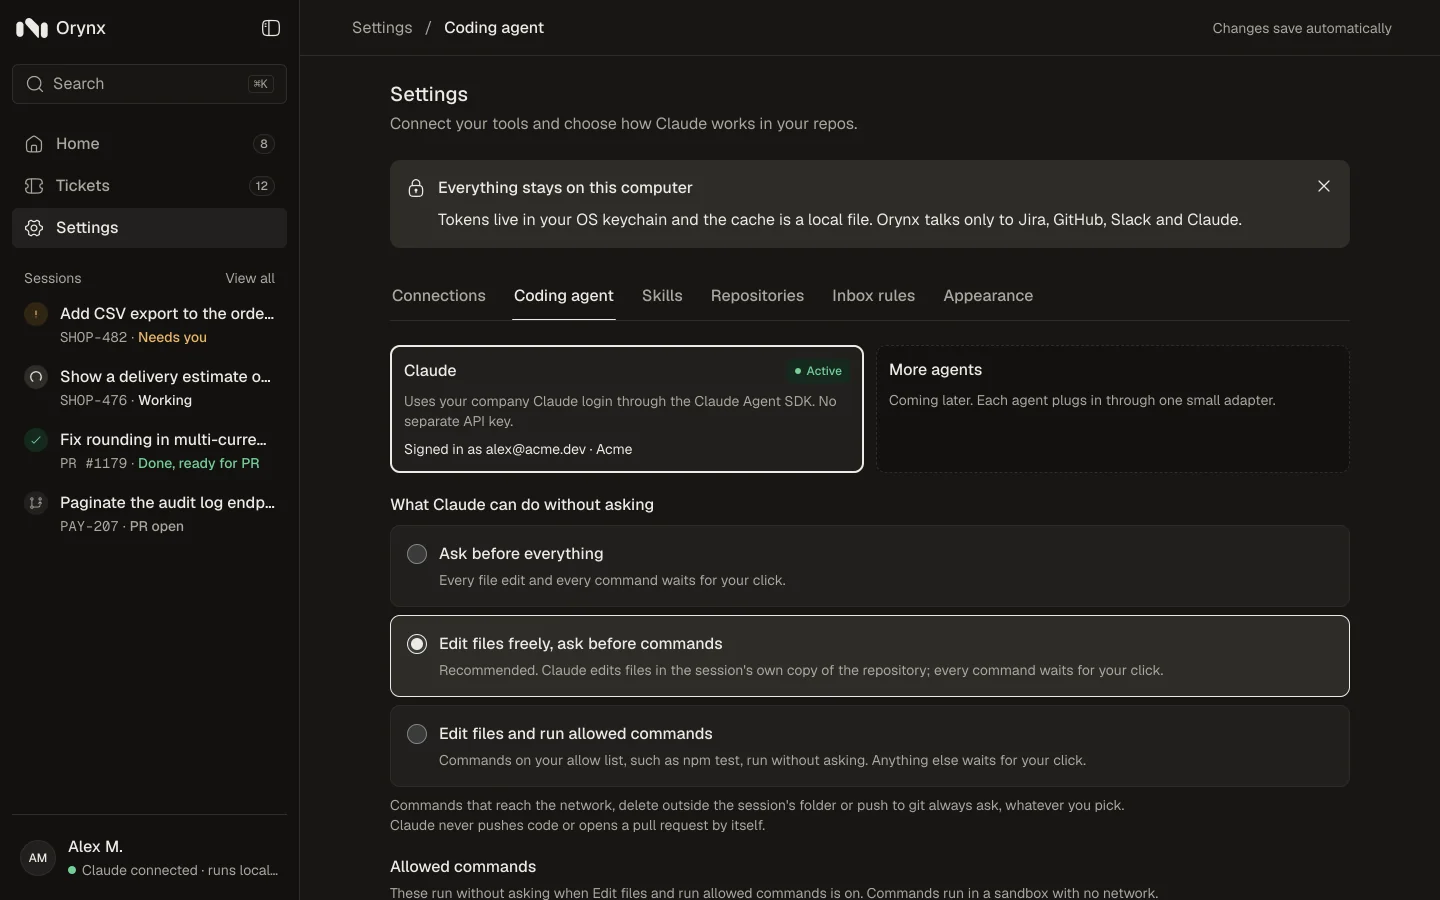
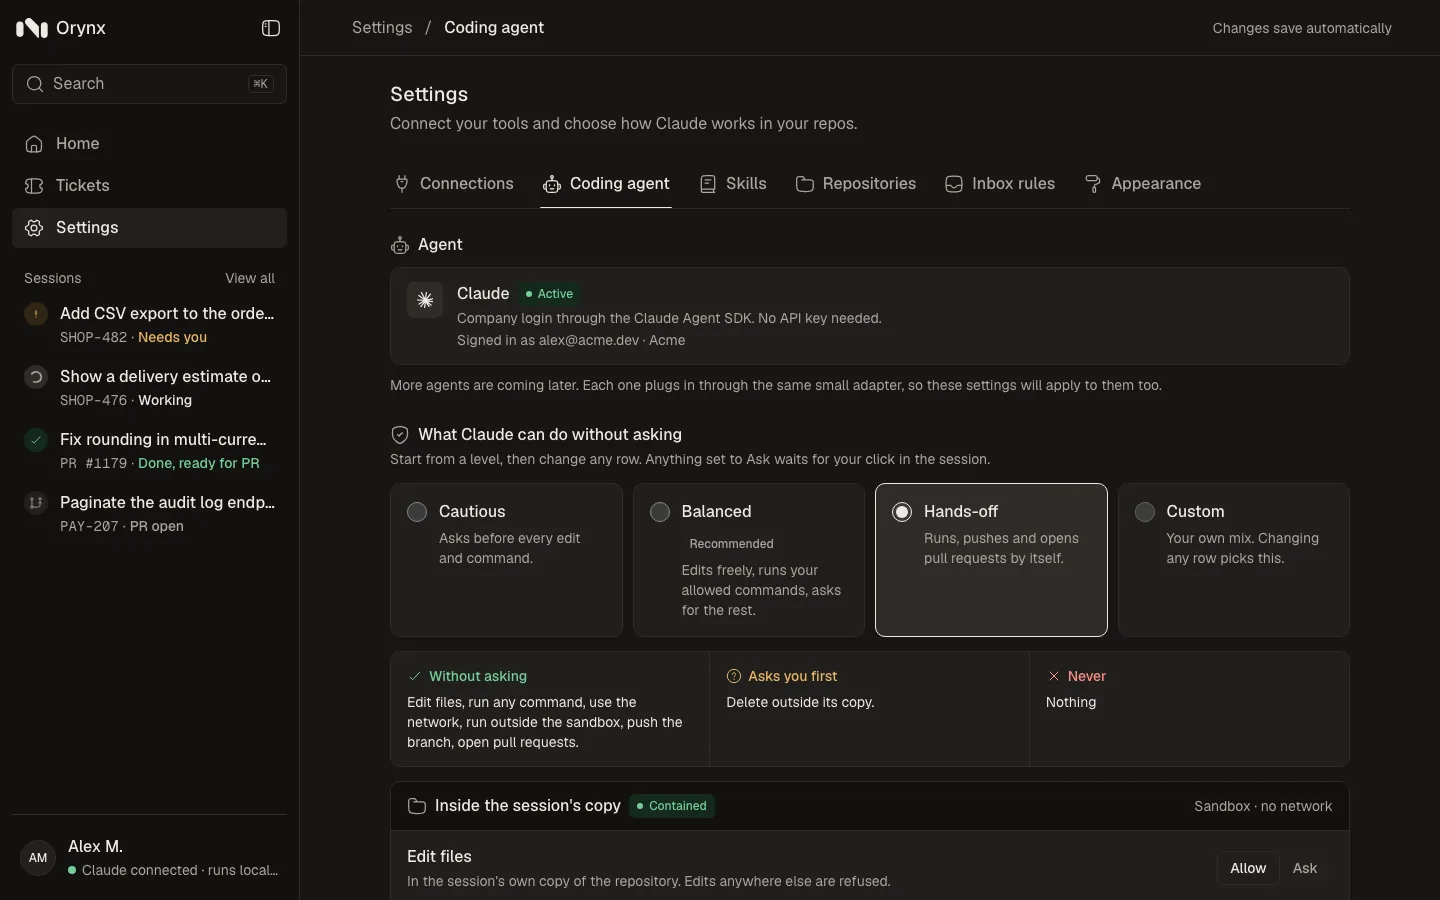
feat(landing): pitch Orynx to developers, with Claude shipping pull requests when allowed
The page said nothing ships without your click. Settings › Coding agent now
has Cautious, Balanced and Hands-off levels and Allow, Ask or Block per row,
so Claude can push the branch and open the pull request on its own.

- New hero, title and closing copy aimed at developers
- Control section, how-it-works steps and FAQ follow the new permissions
- Retake the Coding agent screenshot from the redesigned screen
- Works-with strip and FAQ say more connectors are coming

diff --git a/apps/landing/index.html b/apps/landing/index.html
@@ -3,10 +3,10 @@
   <head>
     <meta charset="UTF-8" />
     <meta name="viewport" content="width=device-width, initial-scale=1.0" />
-    <title>Orynx — Everything around your code</title>
+    <title>Orynx — The developer-first home for Claude Code</title>
     <meta
       name="description"
-      content="Orynx puts the Jira tickets and GitHub reviews that need you in one inbox, and runs Claude on a ticket in its own git worktree while you approve every command. It runs on your laptop."
+      content="Orynx is a developer-first app on your laptop: the Jira tickets and GitHub reviews that need you in one inbox, and Claude building a ticket in its own git worktree, asking first or shipping the pull request itself, as you choose."
     />
     <meta name="theme-color" content="#12110f" />
     <meta name="color-scheme" content="dark" />
@@ -14,10 +14,10 @@
     <link rel="apple-touch-icon" href="/apple-touch-icon.png" />
     <meta property="og:type" content="website" />
     <meta property="og:site_name" content="Orynx" />
-    <meta property="og:title" content="Orynx — Everything around your code" />
+    <meta property="og:title" content="Orynx — The developer-first home for Claude Code" />
     <meta
       property="og:description"
-      content="One inbox for the work that needs you, and Claude building tickets in a worktree you control. Runs on your laptop."
+      content="One inbox for the work that needs you, and Claude taking tickets to pull requests in a worktree you control. Runs on your laptop."
     />
     <meta property="og:image" content="/og.png" />
     <meta property="og:image:width" content="1200" />
@@ -48,7 +48,7 @@
         <nav class="site-nav" aria-label="Main">
           <a href="#inbox">Product</a>
           <a href="#how-it-works">How it works</a>
-          <a href="#control">Safety</a>
+          <a href="#control">Control</a>
           <a href="#faq">FAQ</a>
         </nav>
         <a class="btn btn-primary btn-small" href="#get-started">Get started</a>
@@ -58,11 +58,12 @@
     <main id="main">
       <section class="hero" id="top" aria-labelledby="hero-title">
         <div class="wrap hero-copy">
-          <p class="pill"><span class="pill-dot" aria-hidden="true"></span>Built on Claude · Runs on your laptop</p>
-          <h1 id="hero-title">Everything around your code, <em>in one place.</em></h1>
+          <p class="pill"><span class="pill-dot" aria-hidden="true"></span>Developer-first · Runs on your laptop</p>
+          <h1 id="hero-title">Hand Claude the ticket. <em>Keep your flow.</em></h1>
           <p class="lede">
-            Orynx puts the Jira tickets and GitHub reviews that need you in one inbox. Hand a ticket to Claude and watch
-            it build the change in its own git worktree, while you approve every command and decide what ships.
+            Built for developers who ship with Claude Code. Orynx puts the Jira tickets and GitHub reviews that need you
+            in one inbox, and Claude builds a ticket in its own git worktree. You choose how far it goes: ask before
+            every command, or push the branch and open the pull request on its own.
           </p>
           <div class="actions">
             <a class="btn btn-primary" href="#get-started">Get started</a>
@@ -89,7 +90,7 @@
           </figure>
         </div>
 
-        <ul class="wrap proof" aria-label="Why teams trust it">
+        <ul class="wrap proof" aria-label="Why developers use it">
           <li>
             <svg viewBox="0 0 24 24" aria-hidden="true"><path d="M5 12.5l4.5 4.5L19 7.5" /></svg>Runs on your laptop
           </li>
@@ -98,8 +99,8 @@
             keychain
           </li>
           <li>
-            <svg viewBox="0 0 24 24" aria-hidden="true"><path d="M5 12.5l4.5 4.5L19 7.5" /></svg>Nothing ships without
-            your click
+            <svg viewBox="0 0 24 24" aria-hidden="true"><path d="M5 12.5l4.5 4.5L19 7.5" /></svg>You set what needs your
+            click
           </li>
         </ul>
       </section>
@@ -167,6 +168,13 @@
               </svg>
               Slack <span class="soon">Soon</span>
             </li>
+            <li class="tool tool-soon">
+              <svg viewBox="0 0 24 24" aria-hidden="true" class="stroke-icon">
+                <circle cx="12" cy="12" r="9" />
+                <path d="M12 8v8M8 12h8" />
+              </svg>
+              More connectors <span class="soon">Coming</span>
+            </li>
           </ul>
         </div>
       </section>
@@ -231,7 +239,7 @@
             <h2 id="how-title">Delegate the work. Stay close to the change.</h2>
             <p>
               A session takes a ticket from brief to pull request in five visible steps: plan, build, test, review and
-              pull request. You can step in at any of them.
+              pull request. Step in at any of them, or let it run.
             </p>
           </div>
           <div class="how">
@@ -251,17 +259,17 @@
                 </p>
               </li>
               <li>
-                <h3>You approve what runs</h3>
+                <h3>Your settings decide what runs</h3>
                 <p>
-                  Commands wait for you: allow once, always allow, or deny. Review the diff file by file and ask for
-                  changes without starting over.
+                  Claude does what you allowed in Settings and asks for the rest: allow once, always allow, or deny.
+                  Review the diff file by file and ask for changes without starting over.
                 </p>
               </li>
               <li>
-                <h3>Ship when you are ready</h3>
+                <h3>Ship your way</h3>
                 <p>
-                  Claude drafts the pull request title and description. Nothing is pushed and no pull request opens
-                  until you click.
+                  Claude drafts the pull request title and description. Push and open it with one click, or allow Claude
+                  to push the branch and open the pull request on its own.
                 </p>
               </li>
             </ol>
@@ -292,27 +300,34 @@
               height="900"
               loading="lazy"
               decoding="async"
-              alt="Orynx Settings, Coding agent. Claude is active through a company login. Three choices set what Claude can do without asking: ask before everything, edit files freely and ask before commands, or edit files and run allowed commands."
+              alt="Orynx Settings, Coding agent. Under What Claude can do without asking, four levels: Cautious, Balanced, Hands-off and Custom. Hands-off is picked, and the summary says Claude edits files, runs any command, uses the network, pushes the branch and opens pull requests without asking, and asks before deleting outside its copy."
             />
           </figure>
           <div class="reveal">
             <div class="section-head">
-              <p class="eyebrow">You stay in control</p>
-              <h2 id="control-title">Automation without losing the wheel.</h2>
-              <p>Pick how much Claude may do on its own. The guardrails below hold whichever level you choose.</p>
+              <p class="eyebrow">Your rules</p>
+              <h2 id="control-title">As hands-on or hands-off as you like.</h2>
+              <p>
+                Pick a level in Settings › Coding agent, then set any kind of call to Allow, Ask or Block. Claude checks
+                your settings before every call.
+              </p>
             </div>
             <ul class="checks">
               <li>
-                <strong>Three permission levels.</strong> From asking before every edit to running only the commands on
-                your allow list.
-              </li>
-              <li><strong>A sandbox for every command.</strong> Commands run without network access.</li>
-              <li>
-                <strong>Risky steps always ask.</strong> Reaching the network, deleting outside the session's folder and
-                pushing to git wait for you.
+                <strong>Three levels to start from.</strong> Cautious asks before every edit and command. Balanced edits
+                freely and runs your allowed commands. Hands-off runs, pushes and opens pull requests by itself.
               </li>
               <li>
-                <strong>No push, no pull request on its own.</strong> Claude drafts; you decide what leaves your laptop.
+                <strong>Your own mix.</strong> Edits, commands, the network, deleting outside the session's copy,
+                pushing and pull requests each have their own row.
+              </li>
+              <li>
+                <strong>Pull requests without the click.</strong> Allow push and pull request, and Claude ships the
+                session's branch as you, never forced. Until then, it never pushes on its own.
+              </li>
+              <li>
+                <strong>Sandboxed unless you say so.</strong> Commands run with no network and write only to the
+                session's copy. Each risky row warns you when you allow it.
               </li>
               <li>
                 <strong>Stop at any moment.</strong> Stop Claude mid-step, or discard the session and its worktree.
@@ -367,8 +382,10 @@
                   <path d="M3 12h18M12 3c2.5 2.6 3.8 5.6 3.8 9s-1.3 6.4-3.8 9c-2.5-2.6-3.8-5.6-3.8-9S9.5 5.6 12 3z" />
                 </svg>
                 <div>
-                  <h3>Four services, nothing else</h3>
-                  <p>Orynx talks only to Jira, GitHub, Slack and Claude.</p>
+                  <h3>Only what you connect</h3>
+                  <p>
+                    Orynx talks only to the services you connect: Jira, GitHub and Claude today, Slack and more next.
+                  </p>
                 </div>
               </li>
             </ul>
@@ -509,8 +526,9 @@ pnpm start
             <details>
               <summary>Can Claude push code or open a pull request by itself?</summary>
               <p>
-                No. Claude drafts the commit message and the pull request, and nothing leaves your laptop until you
-                click. Pushing to git always asks, whatever permission level you pick.
+                If you allow it. A fresh Orynx never pushes. In Settings › Coding agent, pick Hands-off, or set Push the
+                branch and Open a pull request to Allow, and Claude pushes the session's branch and opens the pull
+                request on its own. Set them to Ask to click for each one, or Block to keep them off.
               </p>
             </details>
             <details>
@@ -521,10 +539,11 @@ pnpm start
               </p>
             </details>
             <details>
-              <summary>When does Slack arrive?</summary>
+              <summary>Which connectors come next?</summary>
               <p>
                 Slack mentions and direct messages are next. Reading them needs a Slack app your workspace admin
-                approves, so the timing depends on that approval.
+                approves, so the timing depends on that approval. More connectors follow, each a small adapter on the
+                local server, so a new tool lands in the same inbox.
               </p>
             </details>
             <details>
@@ -537,8 +556,10 @@ pnpm start
 
       <section class="cta" aria-labelledby="cta-title">
         <div class="wrap cta-inner reveal">
-          <h2 id="cta-title">Make the next step <em>obvious.</em></h2>
-          <p>One calm view of your engineering work, from the first ticket to the pull request that ships it.</p>
+          <h2 id="cta-title">Spend your day <em>on the code.</em></h2>
+          <p>
+            Orynx keeps tickets, reviews and Claude sessions in view, from the first ticket to the merged pull request.
+          </p>
           <div class="actions">
             <a class="btn btn-primary" href="#get-started">Get started</a>
             <a class="btn btn-secondary" href="#how-it-works">See how it works</a>
@@ -563,7 +584,7 @@ pnpm start
         <nav class="footer-nav" aria-label="Footer">
           <a href="#inbox">Product</a>
           <a href="#how-it-works">How it works</a>
-          <a href="#control">Safety</a>
+          <a href="#control">Control</a>
           <a href="#local-first">Local-first</a>
           <a href="#faq">FAQ</a>
         </nav>
